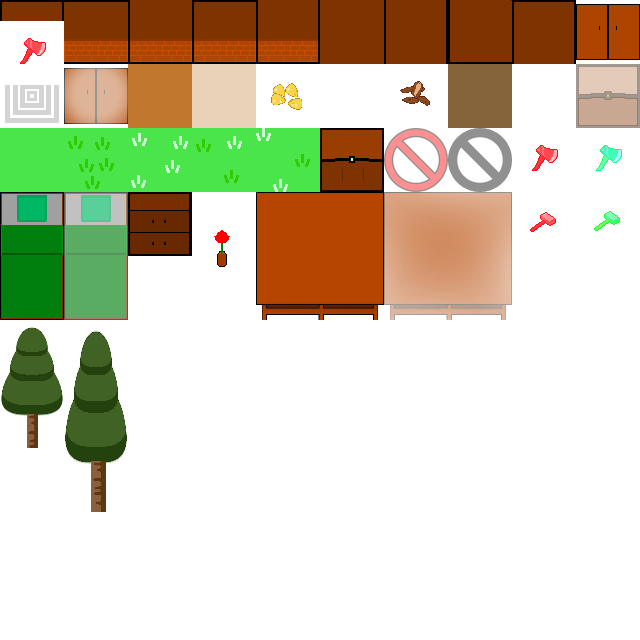
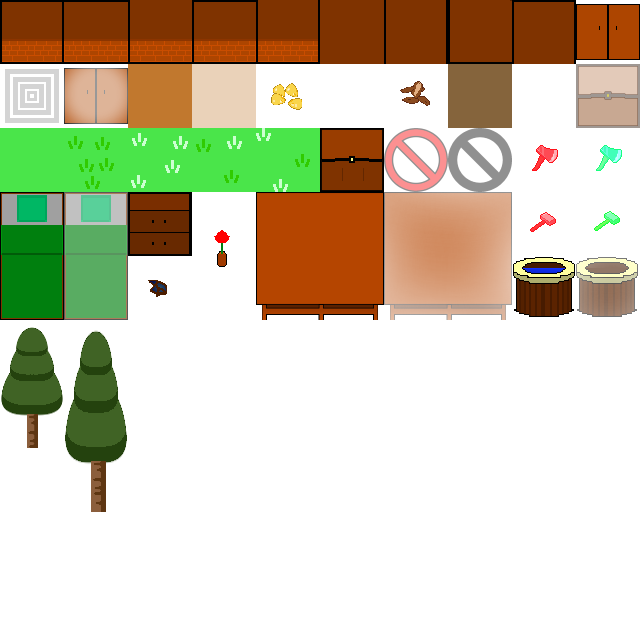
[fix] ajout du puits

Changed region(s): [[0.7812, 0.375, 1.0, 0.5], [0.0, 0.0312, 0.125, 0.1562], [0.2188, 0.4375, 0.2812, 0.4688]]

diff --git a/My Earth/core/src/com/ultraime/database/SaveService.java b/My Earth/core/src/com/ultraime/database/SaveService.java
@@ -62,10 +62,12 @@ public class SaveService {
 			LecteurXML.getInstance().traiterToutLesFichiers();
 
 			// ici chargement et ajout des différents objets sur la carte
-			chargerStructure(baseData);
-			chargerCulture(baseData);
-			chargerMeuble(baseData);
-			chargerSol(baseData);
+			chargerData(baseData.baseStructure.getElementEarthStructure());
+			chargerData(baseData.baseCulture.getElementEarthPlantes());
+			chargerData(baseData.baseMeuble.getElementEarthMeubles());
+			chargerData(baseData.baseSol.getElementEarthSol());
+			chargerData(baseData.baseNature.getElementEarthNature());
+			chargerData(baseData.baseNature.getElementEarthEau());
 			chargerPersonnage(baseData);
 
 			ois.close();
@@ -75,7 +77,6 @@ public class SaveService {
 		if (Parametre.MODE_DEBUG) {
 			System.out.println("<< fin de chargement des datas");
 		}
-
 	}
 
 	/**
@@ -96,54 +97,9 @@ public class SaveService {
 	/**
 	 * @param baseData
 	 */
-	public static void chargerSol(Base baseData) {
-		List<ElementEarth> elementEarthSol = baseData.baseSol.getElementEarthSol();
-		for (int i = 0; i < elementEarthSol.size(); i++) {
-			final ElementEarth elem = elementEarthSol.get(i);
-			TileMapService.getInstance().placerElementEarth(elem);
-		}
-	}
-
-	/**
-	 * @param baseData
-	 */
-	public static void chargerMeuble(Base baseData) {
-		List<ElementEarth> elementEarthMeubles = baseData.baseMeuble.getElementEarthMeubles();
-		for (int i = 0; i < elementEarthMeubles.size(); i++) {
-			final ElementEarth elem = elementEarthMeubles.get(i);
-			TileMapService.getInstance().placerElementEarth(elem);
-		}
-	}
-
-	/**
-	 * @param baseData
-	 */
-	public static void chargerCulture(Base baseData) {
-		List<ElementEarth> elementEarthplantes = baseData.baseCulture.getElementEarthPlantes();
-		for (int i = 0; i < elementEarthplantes.size(); i++) {
-			final ElementEarth elem = elementEarthplantes.get(i);
-			TileMapService.getInstance().placerElementEarth(elem);
-		}
-	}
-
-	/**
-	 * @param baseData
-	 */
-	public static void chargerStructure(Base baseData) {
-		List<ElementEarth> elementEarthStructure = baseData.baseStructure.getElementEarthStructure();
-		for (int i = 0; i < elementEarthStructure.size(); i++) {
-			final ElementEarth elem = elementEarthStructure.get(i);
-			TileMapService.getInstance().placerElementEarth(elem);
-		}
-	}
-
-	/**
-	 * @param baseData
-	 */
-	public static void chargerNature(Base baseData) {
-		List<ElementEarth> elementEarthNature = baseData.baseNature.getElementEarthNature();
-		for (int i = 0; i < elementEarthNature.size(); i++) {
-			final ElementEarth elem = elementEarthNature.get(i);
+	private static void chargerData(List<ElementEarth> earths) {
+		for (int i = 0; i < earths.size(); i++) {
+			final ElementEarth elem = earths.get(i);
 			TileMapService.getInstance().placerElementEarth(elem);
 		}
 	}

diff --git a/My Earth/core/src/com/ultraime/database/ControleurActions.java b/My Earth/core/src/com/ultraime/database/ControleurActions.java
@@ -1,5 +1,6 @@
 package com.ultraime.database;
 
+import com.sun.org.apache.xalan.internal.xsltc.compiler.sym;
 import com.ultraime.database.base.Base;
 
 /**
@@ -13,22 +14,46 @@ public class ControleurActions {
 	 * @param posX
 	 * @param posY
 	 */
-	public static void controlerIdTuileNone(final ElementEarth elementEarth, final int posX, final int posY) {
+	public static boolean controlerIdTuileNone(final ElementEarth elementEarth, int posX, int posY) {
 
-		if (elementEarth.type.equals(ElementEarth.action)) {
-			controlerAction(elementEarth, posX, posY);
-		} else {
-			// ElementEarth elementEarthFind =
-			// Base.getInstance().recupererElementEarth(posX, posY);
+		if (!elementEarth.type.equals(ElementEarth.sol_constructible)) {
+			if (elementEarth.type.equals(ElementEarth.action)) {
+				elementEarth.showIdTuileNone = controlerAction(elementEarth, posX, posY);
+			} else if (elementEarth.elementCibles != null && elementEarth.elementCibles.size() > 0) {
+				// TODO faire le controle sur le puits.
+				elementEarth.showIdTuileNone = true;
+				ElementEarth elementEarthFind = Base.getInstance().recupererElementEarth(posX, posY);
+				if (elementEarthFind != null) {
+					if (ElementCible.containsNom(elementEarth.elementCibles, elementEarthFind.nom)) {
+						elementEarth.showIdTuileNone = false;
+					}
+				}
+			} else {
+				elementEarth.showIdTuileNone = false;
+				for (int i = 0; i < elementEarth.elementEarthImages.size(); i++) {
+					final ElementEarthImage earthImage = elementEarth.elementEarthImages.get(i);
+					final int posXImage = earthImage.x + posX;
+					final int posYImage = earthImage.y + posY;
+					final ElementEarth elementEarthFind = Base.getInstance().recupererElementEarth(posXImage,
+							posYImage);
+					if (elementEarthFind != null) {
+						elementEarth.showIdTuileNone = true;
+						break;
+					}
+				}
+
+			}
 		}
+		return elementEarth.showIdTuileNone;
 	}
 
 	/**
 	 * @param elementEarth
 	 * @param posX
 	 * @param posY
+	 * @return
 	 */
-	public static void controlerAction(final ElementEarth elementEarth, final int posX, final int posY) {
+	private static boolean controlerAction(final ElementEarth elementEarth, final int posX, final int posY) {
 		elementEarth.showIdTuileNone = true;
 		ElementEarth elementEarthFind = Base.getInstance().recupererElementEarth(posX, posY);
 		if (elementEarthFind != null) {
@@ -36,6 +61,7 @@ public class ControleurActions {
 				elementEarth.showIdTuileNone = false;
 			}
 		}
+		return elementEarth.showIdTuileNone;
 	}
 
 	/**

diff --git a/My Earth/core/src/com/ultraime/game/metier/TileMapService.java b/My Earth/core/src/com/ultraime/game/metier/TileMapService.java
@@ -218,20 +218,24 @@ public class TileMapService {
 	public void placerElementEarth(final ElementEarth elementAconstruire) {
 		final int posX = elementAconstruire.x;
 		final int posY = elementAconstruire.y;
-
+		String layer = elementAconstruire.layerCible;
 		for (int i = 0; i < elementAconstruire.elementEarthImages.size(); i++) {
-			int posXImage = posX + elementAconstruire.elementEarthImages.get(i).x;
-			int posYImage = posY + elementAconstruire.elementEarthImages.get(i).y;
+			final ElementEarthImage elementEarthImage = elementAconstruire.elementEarthImages.get(i);
+			int posXImage = posX + elementEarthImage.x;
+			int posYImage = posY + elementEarthImage.y;
 
-			if (!elementAconstruire.layerCible.equals(SOL_0)) {
-				if (elementAconstruire.elementEarthImages.get(i).isCollision) {
+			if (layer == null) {
+				layer = elementEarthImage.layerCible;
+			}
+			if (!layer.equals(SOL_0)) {
+				if (elementEarthImage.isCollision) {
 					WorldService.getInstance().creerCollision(posXImage, posYImage);
 				} else {
 					WorldService.getInstance().retirerCollision(posXImage, posYImage);
 				}
 			}
 		}
-		TiledMapTileLayer tiledLayer = (TiledMapTileLayer) tiledMap.getLayers().get(elementAconstruire.layerCible);
+		TiledMapTileLayer tiledLayer = (TiledMapTileLayer) tiledMap.getLayers().get(layer);
 		TiledMapTileLayer tiledLayerConstruction = (TiledMapTileLayer) tiledMap.getLayers().get(CONSTRUCTION);
 		alimenterImageFromMultiTile(elementAconstruire, tiledLayerConstruction, posX, posY, true);
 		alimenterImageFromMultiTile(elementAconstruire, tiledLayer, posX, posY, false);
@@ -257,8 +261,8 @@ public class TileMapService {
 	 * @param posY
 	 * @param aVider
 	 */
-	public void alimenterImageFromMultiTile(ElementEarth elementEarth, TiledMapTileLayer tiledLayer,
-			final int posX, final int posY, final boolean aVider) {
+	public void alimenterImageFromMultiTile(ElementEarth elementEarth, TiledMapTileLayer tiledLayer, final int posX,
+			final int posY, final boolean aVider) {
 		// TODO pb si plusieurs layer pour un obj
 		TiledMapTileSet tileSet = TileMapService.getInstance().getTileSet(TileMapService.TUILE);
 		for (int j = 0; j < elementEarth.elementEarthImages.size(); j++) {

diff --git a/My Earth/core/src/com/ultraime/database/Action.java b/My Earth/core/src/com/ultraime/database/Action.java
@@ -361,25 +361,25 @@ public class Action {
 			Vector2 vector2 = vectorsConstruction.get(i);
 			final int posX = (int) vector2.x;
 			final int posY = (int) vector2.y;
-
-			ElementEarth earth = new ElementEarth(ORDRE.elementEarth);
-			earth.x = posX;
-			earth.y = posY;
-			boolean doitEtreConstruit = true;
-			if (ElementEarth.culture_sol_constructible.equals(earth.type)) {
-				if (Base.getInstance().isObjetPresentSaufPlante(posX, posY)) {
-					doitEtreConstruit = false;
+			if (!ControleurActions.controlerIdTuileNone(ORDRE.elementEarth, posX, posY)) {
+				ElementEarth earth = new ElementEarth(ORDRE.elementEarth);
+				earth.x = posX;
+				earth.y = posY;
+				boolean doitEtreConstruit = true;
+				if (ElementEarth.culture_sol_constructible.equals(earth.type)) {
+					if (Base.getInstance().isObjetPresentSaufPlante(posX, posY)) {
+						doitEtreConstruit = false;
+					}
+				}
+				if (doitEtreConstruit) {
+					TileMapService.ajouterElementAconstruireNEW(earth);
+					alimenterVectorConstructionLayer(vector2);
+					if (earth.elementEarthImages.get(0).isCollision) {
+						final Rectangle rectangle = new Rectangle(posX, posY, 0.5f, 0.5f);
+						Base.getInstance().ajouterRectangleConstructible(rectangle);
+					}
 				}
 			}
-			if (doitEtreConstruit) {
-				TileMapService.ajouterElementAconstruireNEW(earth);
-				alimenterVectorConstructionLayer(vector2);
-				if (earth.elementEarthImages.get(0).isCollision) {
-					final Rectangle rectangle = new Rectangle(posX, posY, 0.5f, 0.5f);
-					Base.getInstance().ajouterRectangleConstructible(rectangle);
-				}
-			}
-
 		}
 		vectorDepart = null;
 		viderVectorConstruction();

diff --git a/My Earth/core/src/com/ultraime/game/ecran/EcranJeu.java b/My Earth/core/src/com/ultraime/game/ecran/EcranJeu.java
@@ -97,7 +97,11 @@ public class EcranJeu extends Ecran {
 		// chargement de la music
 		MusicManager.getInstance();
 		
-		//TODO test ajout arbre.
+		initThread();
+		
+	}
+	public void initialiserTest() {
+		// TODO data de test
 		final ElementEarth elementEarth = Base.getInstance().recupererElementEarthByNom("arbre");
 		final ElementEarth arbre = new ElementEarth(elementEarth);
 		arbre.x = 36;
@@ -109,9 +113,12 @@ public class EcranJeu extends Ecran {
 		grandArbre.x = 37;
 		grandArbre.y = 51;
 		TileMapService.getInstance().construireItem(grandArbre);
-		//
 		
-		initThread();
+		final ElementEarth elementEarth3 = Base.getInstance().recupererElementEarthByNom("eau souterraine");
+		final ElementEarth eau_souterraine = new ElementEarth(elementEarth3);
+		eau_souterraine.x = 43;
+		eau_souterraine.y = 48;
+		TileMapService.getInstance().construireItem(eau_souterraine);
 		
 	}
 	public void initThread(){
@@ -331,5 +338,7 @@ public class EcranJeu extends Ecran {
 
 		return false;
 	}
+
+
 
 }

diff --git a/My Earth/core/src/com/ultraime/database/ElementEarth.java b/My Earth/core/src/com/ultraime/database/ElementEarth.java
@@ -26,6 +26,7 @@ public class ElementEarth implements Serializable {
 	transient public final static String structure = "structure";
 	transient public final static String sol = "sol";
 	transient public final static String nature = "nature";
+	transient public final static String eau = "eau";
 	// variable de placement
 	transient public final static String unique = "unique";
 	transient public final static String ligne = "ligne";
@@ -50,6 +51,7 @@ public class ElementEarth implements Serializable {
 			add(structure);
 			add(action);
 			add(nature);
+			add(eau);
 		}
 	};
 
@@ -124,8 +126,9 @@ public class ElementEarth implements Serializable {
 
 	/**
 	 * Tuile de l'image quand l'action ou la construction n'est pas possible.
+	 * 27 est le cercle rouge par défaut.
 	 */
-	public int idTuileNone;
+	public int idTuileNone = 27;
 	public boolean showIdTuileNone = false;
 
 	public List<ElementCible> elementCibles = new ArrayList<>();

diff --git a/My Earth/core/src/com/ultraime/database/base/BaseNature.java b/My Earth/core/src/com/ultraime/database/base/BaseNature.java
@@ -13,9 +13,11 @@ public class BaseNature implements Serializable {
 	 */
 	private static final long serialVersionUID = 1L;
 	private List<ElementEarth> elementEarthNature;
+	private List<ElementEarth> elementEarthEau;
 
 	public BaseNature() {
 		this.elementEarthNature = new ArrayList<ElementEarth>();
+		this.elementEarthEau = new ArrayList<ElementEarth>();
 	}
 
 	public List<ElementEarth> getElementEarthNature() {
@@ -24,6 +26,14 @@ public class BaseNature implements Serializable {
 
 	public void setElementEarthNature(List<ElementEarth> elementEartNature) {
 		this.elementEarthNature = elementEartNature;
+	}
+
+	public List<ElementEarth> getElementEarthEau() {
+		return elementEarthEau;
+	}
+
+	public void setElementEarthEau(List<ElementEarth> elementEarthEau) {
+		this.elementEarthEau = elementEarthEau;
 	}
 
 }

diff --git a/My Earth/core/src/com/ultraime/database/ElementCible.java b/My Earth/core/src/com/ultraime/database/ElementCible.java
@@ -14,6 +14,11 @@ public class ElementCible {
 	public String type;
 
 	/**
+	 * nom de la cible.
+	 */
+	public String nom;
+
+	/**
 	 * @param elementCibles
 	 * @param typeCible
 	 * @return true si la liste contient le type cible.
@@ -30,5 +35,21 @@ public class ElementCible {
 		return isContain;
 	}
 
+	/**
+	 * @param elementCibles
+	 * @param nomCible
+	 * @return true si la liste contient le type cible.
+	 */
+	public static boolean containsNom(final List<ElementCible> elementCibles, final String nomCible) {
+		boolean isContain = false;
+		for (int i = 0; i < elementCibles.size(); i++) {
+			final ElementCible elementCible = elementCibles.get(i);
+			if (elementCible.nom.equals(nomCible)) {
+				isContain = true;
+				break;
+			}
+		}
+		return isContain;
+	}
 
 }

diff --git a/My Earth/core/src/com/ultraime/game/utile/Image.java b/My Earth/core/src/com/ultraime/game/utile/Image.java
@@ -26,10 +26,7 @@ public class Image {
 			tableauImage[VariableCommune.LOGO_VITESSE2] = new Texture(Gdx.files.internal("logo/vitesse2.png"));
 			tableauImage[VariableCommune.LOGO_VITESSE3] = new Texture(Gdx.files.internal("logo/vitesse3.png"));
 			tableauImage[VariableCommune.LOGO_PAUSE] = new Texture(Gdx.files.internal("logo/pause.png"));
-//			tableauImage[VariableCommune.SPRITE_TEST] = new Texture(Gdx.files.internal("bouton/bouton_3parts/carre.png"));
-			// tableauImage[Element.MUR] = new
-			// Texture(Gdx.files.internal("objet/mur.png"));
-
+			tableauImage[VariableCommune.HUD_CADRE_STATS] = new Texture(Gdx.files.internal("hud/hud_cadre_stats.png"));
 		}
 		return tableauImage[typeElement];
 	}

diff --git a/My Earth/core/src/com/ultraime/database/LecteurXML.java b/My Earth/core/src/com/ultraime/database/LecteurXML.java
@@ -146,7 +146,12 @@ public class LecteurXML extends ApplicationAdapter {
 		Array<Element> elementsCible = child.getChildrenByName("elementsCible");
 		for (Element elementCibleXML : elementsCible) {
 			ElementCible elementCible = new ElementCible();
-			elementCible.type = elementCibleXML.getChildByName("type").getText();
+			if (elementCibleXML.getChildByName("type") != null) {
+				elementCible.type = elementCibleXML.getChildByName("type").getText();
+			}
+			if (elementCibleXML.getChildByName("nom") != null) {
+				elementCible.nom = elementCibleXML.getChildByName("nom").getText();
+			}
 
 			elementEarth.addElementCible(elementCible);
 		}

diff --git a/My Earth/core/src/com/ultraime/game/ecran/EcranPrincipal.java b/My Earth/core/src/com/ultraime/game/ecran/EcranPrincipal.java
@@ -78,6 +78,7 @@ public class EcranPrincipal extends Ecran {
 		if (isClique) {
 			this.ecranManager.initialiserEcran(this.ecranManager.ecranCarte);
 			this.ecranManager.ecranCarte.initialiserPersonnage();
+			this.ecranManager.ecranCarte.initialiserTest();
 		}
 		isClique = this.boutonLoadPartie.isClique(screenX, screenY);
 		if (isClique) {
